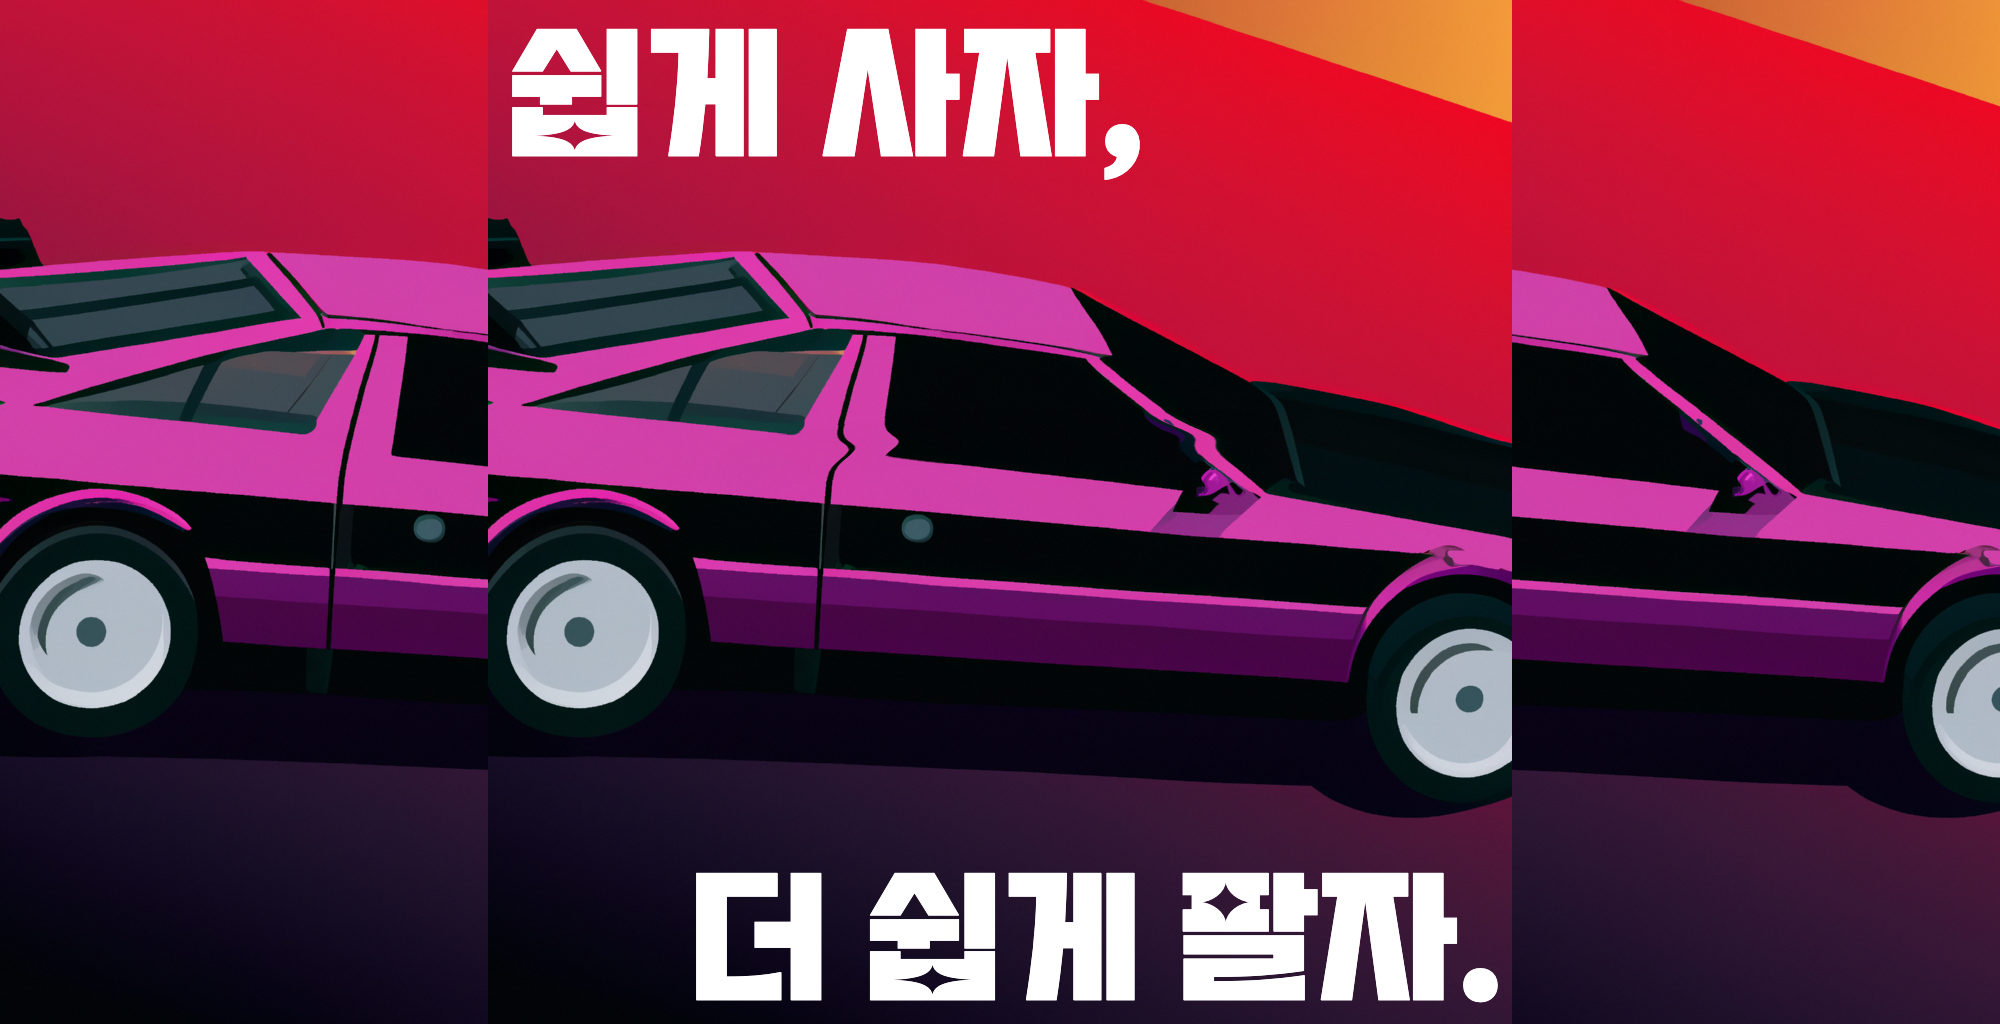
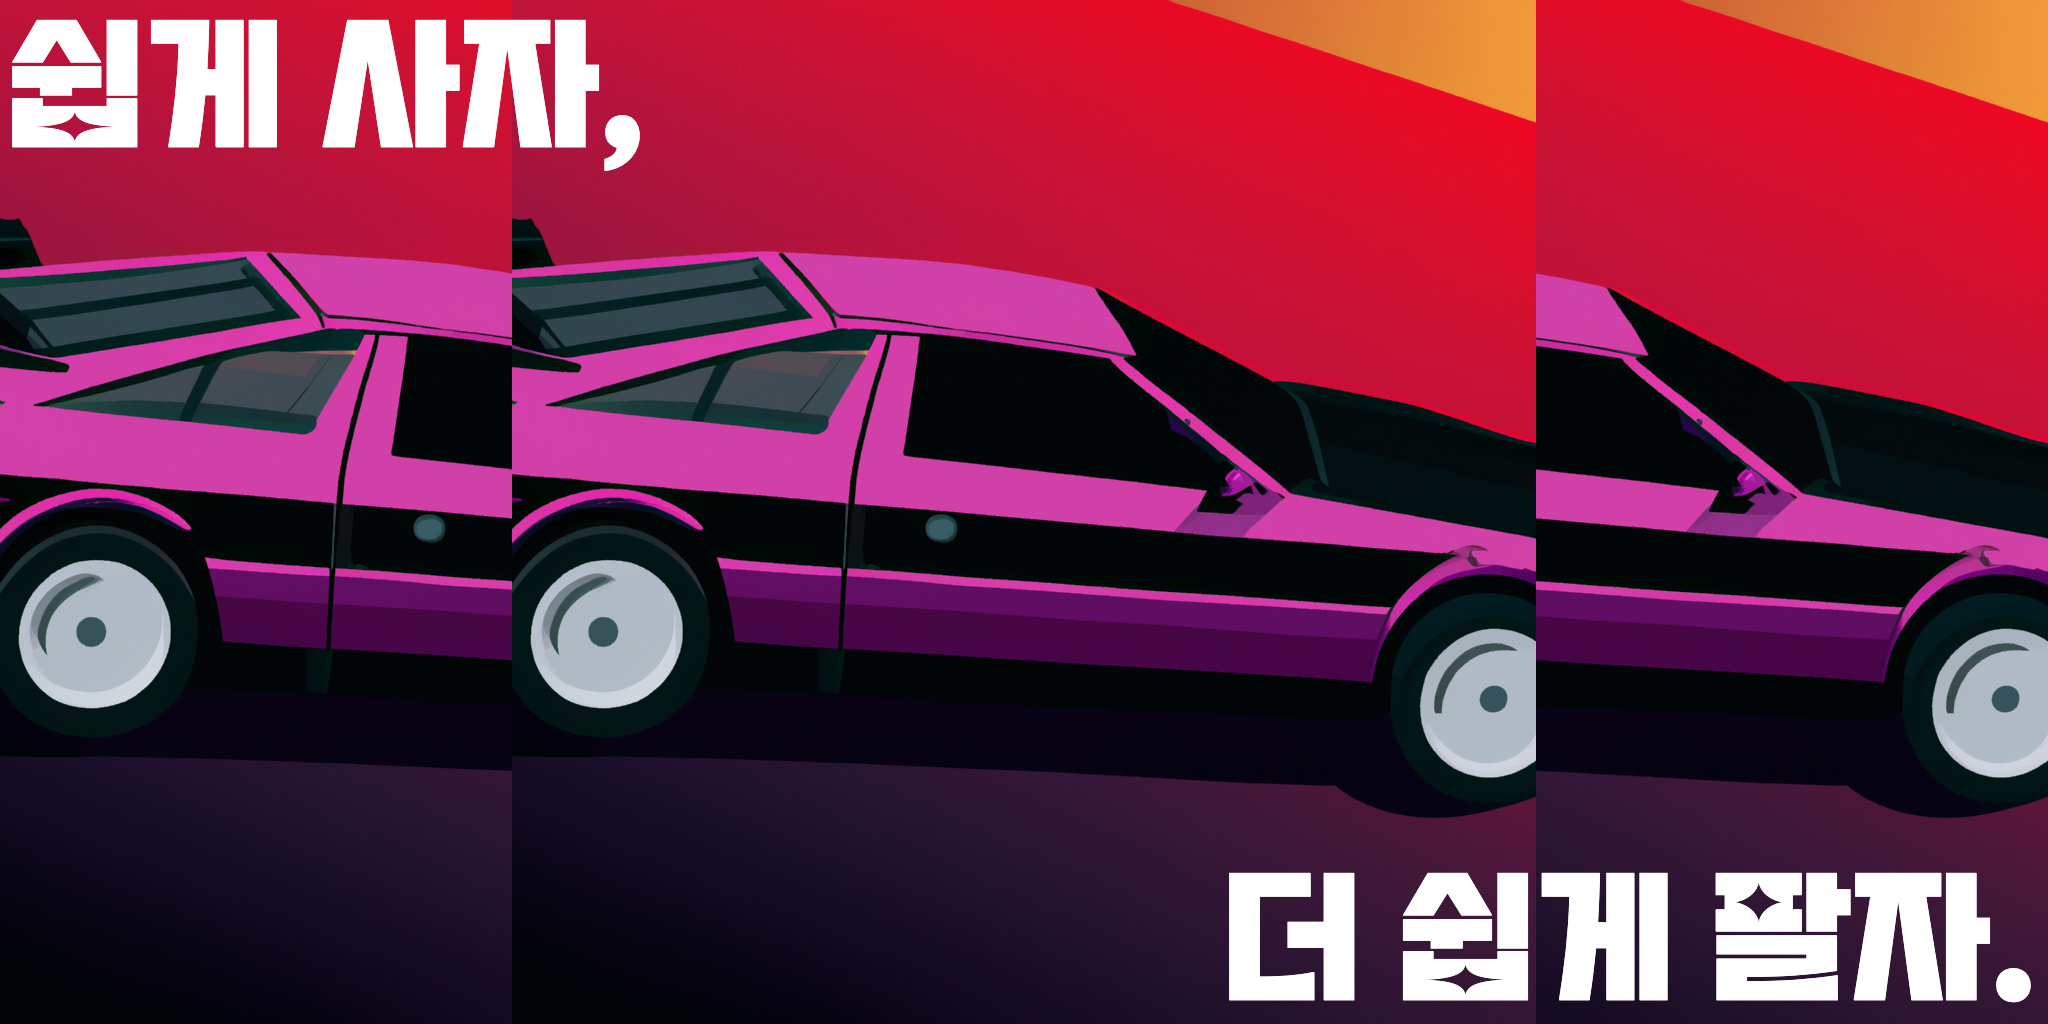
Customer list added' :

diff --git a/customer_list.php b/customer_list.php
@@ -1,0 +1,52 @@
+<?
+include "header.php";
+include "config.php";    //데이터베이스 연결 설정파일
+include "util.php";      //유틸 함수
+?>
+<div class="container">
+    <?
+    $conn = dbconnect($host, $dbid, $dbpass, $dbname);
+    $query = "select * from customer";
+    $result = mysqli_query($conn, $query);
+    if (!$result) {
+         die('Query Error : ' . mysqli_error());
+    }
+    ?>
+
+    <table class="table table-striped table-bordered">
+        <tr>
+            <th>고객 번호</th>
+            <th>이름</th>
+            <th>연락처</th>
+            <th>이메일</th>
+            <th>주소</th>
+        </tr>
+        <?
+        $row_index = 1;
+        while ($row = mysqli_fetch_array($result)) {
+            echo "<tr>";
+            echo "<td>{$row['customer_no']}</td>";
+            echo "<td>{$row['name']}</td>";
+            echo "<td>{$row['contact']}</td>";
+            echo "<td>{$row['email']}</td>";
+            echo "<td>{$row['address']}</td>";
+            echo "<td width='17%'>
+                <a href='product_form.php?product_id={$row['product_id']}'><button class='button primary small'>수정</button></a>
+                 <button onclick='javascript:deleteConfirm({$row['product_id']})' class='button danger small'>삭제</button>
+                </td>";
+            echo "</tr>";
+            $row_index++;
+        }
+        ?>
+    </table>
+    <script>
+        function deleteConfirm(product_id) {
+            if (confirm("정말 삭제하시겠습니까?") == true){    //확인
+                window.location = "product_delete.php?product_id=" + product_id;
+            }else{   //취소
+                return;
+            }
+        }
+    </script>
+</div>
+<? include("footer.php") ?>

diff --git a/header.php b/header.php
@@ -10,16 +10,17 @@
 <form action="product_list.php" method="post">
     <div class='navbar fixed'>
         <div class='container'>
-            <a class='pull-left title' href="index.php">고려차차차</a>
+            <a class='pull-left title' href="index.php">고려차차차🚗</a>
             <ul class='pull-right'>
                 <li>
                     <input type="text" name="search_keyword" placeholder="고려차차차 통합검색">
                 </li>
-                <li><a href='product_list.php'>차량 등록</a></li>
-                <li><a href='product_form.php'>상품 등록</a></li>
-                <li><a href='buy_form.php'>상품 구입</a></li>
-                <li><a href='buy_list.php'>상품 구입 목록</a></li>
-                <li><a href='k_mall_db.php'>K-Mall DB</a></li>
+                <li><a href='car_insert.php'>차량 등록</a></li>
+                <li><a href='car_list.php'>내가 팔 차</a></li>
+                <li><a href='appraisal_insert.php'>감정 신청</a></li>
+                <li><a href='appraisal_list.php'>감정 조회</a></li>
+                <li><a href='customer_insert.php'>고객 등록</a></li>
+                <li><a href='customer_list.php'>고객 조회</a></li>
             </ul>
         </div>
     </div>

diff --git a/util.php b/util.php
@@ -1,0 +1,44 @@
+<?
+function dbconnect($host, $id, $pass, $db)  //데이터베이스 연결
+{
+    $conn = mysqli_connect($host, $id, $pass, $db);
+	
+    if ($conn == false) {
+        die('Not connected : ' . mysqli_error());
+    }
+
+    return $conn;
+}
+
+function msg($msg) // 경고 메시지 출력 후 이전 페이지로 이동
+{
+    echo "
+        <script>
+             window.alert('$msg');
+             history.go(-1);
+        </script>";
+    exit;
+}
+
+function s_msg($msg) //일반 메시지 출력
+{
+    echo "
+        <script>
+            window.alert('$msg');
+        </script>";
+}
+
+function check_id($conn, $id)
+{
+	$query = "select customer_id from customer where customer_id='$id'";
+	$result = mysqli_query($conn, $query);
+	
+	$result = mysqli_fetch_array($result);
+	if ($result){
+		return true;
+	}
+	else{
+		return false;
+	}
+}
+?>

diff --git a/index.php b/index.php
@@ -20,7 +20,7 @@
         }
     </style>
     <div class='container'>
-        <p align="center"><img src="images/banner.png" width="100%"></p>
+        <p align="center"><img src="images/banner_2.png" width="100%"></p>
         <h1>고려차차차🚗</h1>
         <p>신개념 중고차 거래 플랫폼</br><b>오늘 등록하고, 내일 파세요!</b></p>
         <p class="ref">본 사이트에서 사용된 리소스는 학술적 용도로만 사용되었으며, 상업적 사용은 제한됩니다. 

diff --git a/config.php b/config.php
@@ -1,0 +1,6 @@
+<?
+    $host = "localhost";
+    $dbid = "db2019320045";                    // 자신의 DB ID
+    $dbpass = "zheedong@naver.com";            // 자신의 DB Password
+    $dbname = "db2019320045";                  // 해당 프로젝트에서 사용하는 DB명
+?>

diff --git a/appraisal_insert.php b/appraisal_insert.php
@@ -1,0 +1,6 @@
+<?
+include "header.php";
+include "config.php";    //데이터베이스 연결 설정파일
+include "util.php";      //유틸 함수
+?>
+<h1>TODO</h1>

diff --git a/appraisal_list.php b/appraisal_list.php
@@ -1,0 +1,6 @@
+<?
+include "header.php";
+include "config.php";    //데이터베이스 연결 설정파일
+include "util.php";      //유틸 함수
+?>
+<h1>TODO</h1>

diff --git a/car_insert.php b/car_insert.php
@@ -1,0 +1,6 @@
+<?
+include "header.php";
+include "config.php";    //데이터베이스 연결 설정파일
+include "util.php";      //유틸 함수
+?>
+<h1>TODO</h1>

diff --git a/car_list.php b/car_list.php
@@ -1,0 +1,6 @@
+<?
+include "header.php";
+include "config.php";    //데이터베이스 연결 설정파일
+include "util.php";      //유틸 함수
+?>
+<h1>TODO</h1>

diff --git a/customer_insert.php b/customer_insert.php
@@ -1,0 +1,6 @@
+<?
+include "header.php";
+include "config.php";    //데이터베이스 연결 설정파일
+include "util.php";      //유틸 함수
+?>
+<h1>TODO</h1>
